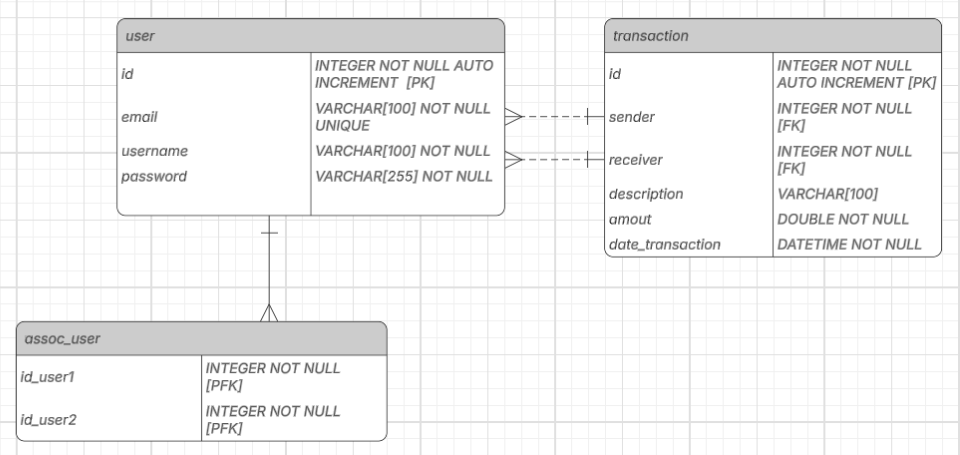
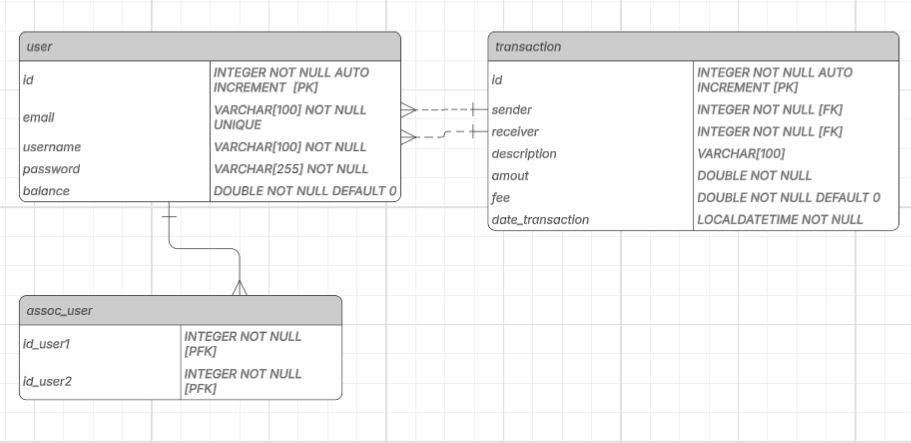
Global refactor (naming, unused imports,unused methods etc)

diff --git a/src/main/resources/templates/register.html b/src/main/resources/templates/register.html
@@ -1,6 +1,5 @@
 <!DOCTYPE html>
-<html lang="fr">
-<html xmlns:th="http://thymeleaf.org">
+<html lang="fr" xmlns:th="http://thymeleaf.org">
 <head>
     <meta charset="UTF-8">
     <title>Inscription - Pay My Buddy</title>
@@ -15,11 +14,11 @@
     <header class="logo">
         <p>
             <a th:href="@{/login}">Pay My Buddy</a>
-        <p>
+        </p>
     </header>
 
 <main>
-    <p class="alert alert-error" th:if="${param.error}">Email ou mot de pase incorrect.</p>
+    <p class="alert alert-error" th:if="${param.error}">Email ou mot de passe incorrect.</p>
     <p class="alert alert-error" th:if="${errorMessage}" th:text="${errorMessage}"></p>
     <p class="alert alert-success" th:if="${successMessage}" th:text="${successMessage}"></p>
 

diff --git a/src/main/resources/templates/login.html b/src/main/resources/templates/login.html
@@ -1,6 +1,5 @@
 <!DOCTYPE html>
-<html lang="fr">
-<html xmlns:th="http://thymeleaf.org">
+<html lang="fr" xmlns:th="http://thymeleaf.org">
 <head>
     <meta charset="UTF-8">
     <title>Connexion - Pay My Buddy</title>
@@ -17,11 +16,11 @@
     <header class="logo">
         <p>
             <a th:href="@{/login}">Pay My Buddy</a>
-        <p>
+        </p>
     </header>
 
 <main>
-    <p class="alert alert-error" th:if="${param.error}">Email ou mot de pase incorrect.</p>
+    <p class="alert alert-error" th:if="${param.error}">Email ou mot de passe incorrect.</p>
     <p class="alert alert-success" th:if="${param.logout}">Déconnecté.e</p>
     <p class="alert alert-error" th:if="${errorMessage}" th:text="${errorMessage}"></p>
 

diff --git a/src/main/resources/templates/transactions.html b/src/main/resources/templates/transactions.html
@@ -47,7 +47,7 @@
         </div>
          <div>
              <label for="montant-transaction" class="invisible">Montant de la transaction</label>
-            <input class="montant-transaction" id="montant-transaction" type="number" th:field="*{amount}" placeholder="0" step="0.01" min="0.01" required> </div>
+            <input class="montant-transaction" id="montant-transaction" type="number" th:field="*{amount}" placeholder="0" step="0.01" min="0.01" required>
         </div>
         <div>
              <button class="payer-button" type="submit">Payer</button>

diff --git a/src/main/java/com/openclassroom/paymybuddy/service/impl/UserService.java b/src/main/java/com/openclassroom/paymybuddy/service/impl/UserService.java
@@ -8,7 +8,6 @@ import com.openclassroom.paymybuddy.model.User;
 import com.openclassroom.paymybuddy.repository.UserRepository;
 import com.openclassroom.paymybuddy.service.IUserService;
 import lombok.extern.slf4j.Slf4j;
-import org.springframework.beans.factory.annotation.Autowired;
 import org.springframework.security.crypto.password.PasswordEncoder;
 import org.springframework.stereotype.Service;
 import org.springframework.transaction.annotation.Transactional;
@@ -45,7 +44,6 @@ public class UserService implements IUserService {
         this.passwordEncoder = passwordEncoder;
         this.userMapper = userMapper;
     }
-    // a supprimer ?
     /**
      * Récupère tout les utilisateurs présents en base de données.
      *
@@ -84,7 +82,7 @@ public class UserService implements IUserService {
      * @return une liste de {@link User} représentant les amis de l'utilisateur
      * @throws BusinessException si aucun utilisateur n'est trouvé avec cet email
      */
-    public List<User> getFriendUsernames(String email) {
+    public List<User> getFriends(String email) {
         log.info("GET_FRIENDS_LIST - Récupération de la liste des amis pour l'utilisateur email={}", email);
         User user = userRepository.findByEmailWithFriends(email)
                 .orElseThrow(() -> new BusinessException("USER_NOT_FOUND","Utilisateur introuvable"));
@@ -149,7 +147,7 @@ public class UserService implements IUserService {
             throw new BusinessException("INVALID_OPERATION", "Vous ne pouvez vous ajouter vous-même");
         }
 
-        if (userRepository.verifyRelation(user.getId(), friend.getId()) > 0) {
+        if (userRepository.countRelation(user.getId(), friend.getId()) > 0) {
             log.warn("ADD_FRIEND_ALREADY_EXISTS - L'utilisateur {} est déjà ami avec {} (relation déjà existante)", user.getEmail(), friend.getEmail());
             throw new BusinessException("FRIEND_ALREADY_ADDED", "Personne déjà dans vos contacts");
         }

diff --git a/src/test/java/com/openclassroom/paymybuddy/service/TransactionServiceTest.java b/src/test/java/com/openclassroom/paymybuddy/service/TransactionServiceTest.java
@@ -67,7 +67,7 @@ public class TransactionServiceTest {
         when(userRepository.findByEmail("receiver@mail.com"))
                 .thenReturn(Optional.of(receiver));
 
-        when(userRepository.verifyRelation(1, 2))
+        when(userRepository.countRelation(1, 2))
                 .thenReturn(1);
 
         when(transactionRepository.save(any(Transaction.class)))
@@ -85,7 +85,7 @@ public class TransactionServiceTest {
 
         transactionService.addTransaction("sender@mail.com", request);
 
-        double expectedFee = 100.0 * 0.05;
+        double expectedFee = 100.0 * 0.005;
         double expectedTotal = 100.0 + expectedFee;
 
         assertEquals(200.0 - expectedTotal, sender.getBalance());
@@ -197,7 +197,7 @@ public class TransactionServiceTest {
         when(userRepository.findByEmail("receiver@mail.com"))
                 .thenReturn(Optional.of(receiver));
 
-        when(userRepository.verifyRelation(1, 2))
+        when(userRepository.countRelation(1, 2))
                 .thenReturn(0);
 
         assertThrows(BusinessException.class, () ->
@@ -229,7 +229,7 @@ public class TransactionServiceTest {
                 transactionService.addTransaction("sender@mail.com", request)
         );
 
-        verify(userRepository, never()).verifyRelation(anyInt(), anyInt());
+        verify(userRepository, never()).countRelation(anyInt(), anyInt());
         verify(transactionRepository, never()).save(any());
     }
 
@@ -248,7 +248,7 @@ public class TransactionServiceTest {
                 transactionService.addTransaction("sender@mail.com", request)
         );
 
-        verify(userRepository, never()).verifyRelation(anyInt(), anyInt());
+        verify(userRepository, never()).countRelation(anyInt(), anyInt());
         verify(transactionRepository, never()).save(any());
     }
 }

diff --git a/src/main/java/com/openclassroom/paymybuddy/PaymybuddyApplication.java b/src/main/java/com/openclassroom/paymybuddy/PaymybuddyApplication.java
@@ -1,29 +1,18 @@
 package com.openclassroom.paymybuddy;
 
-import com.openclassroom.paymybuddy.model.User;
-import com.openclassroom.paymybuddy.service.IUserService;
 import lombok.extern.slf4j.Slf4j;
-import org.springframework.beans.factory.annotation.Autowired;
-import org.springframework.boot.CommandLineRunner;
 import org.springframework.boot.SpringApplication;
 import org.springframework.boot.autoconfigure.SpringBootApplication;
-import org.springframework.transaction.annotation.Transactional;
 
-//Supprimer getUsers?
-//v1 ajout
 /**
  * Classe principale de l'application Pay My Buddy.
  *
- * <p>Cette classe configure et lance l'application Spring Boot.
- * Elle implémente {@link CommandLineRunner} pour exécuter des tâches
- * de démarrage.</p>
+ * <p>Cette classe configure et lance l'application Spring Boot.</p>
  */
 @SpringBootApplication
 @Slf4j
-public class PaymybuddyApplication implements CommandLineRunner {
+public class PaymybuddyApplication {
 
-	@Autowired
-	private IUserService userService;
 
 	/**
 	 * Point d'entrée principal de l'application.
@@ -39,17 +28,4 @@ public class PaymybuddyApplication implements CommandLineRunner {
 		log.info("APPLICATION_STARTED - L'application Pay My Buddy est démarrée");
 	}
 
-	/**
-	 * Méthode exécutée après le démarrage de l'application.
-	 *
-	 * Affiche la liste des utilisateurs présents en base de données dans la console.
-	 * Cette méthode est annotée {@code @Transactional} pour assurer l'accès aux données.
-	 *
-	 * @param args les arguments de ligne de commande passés à l'application
-	 */	@Override
-	@Transactional
-	public void run(String... args) throws Exception {
-		Iterable<User> users = userService.getUsers();
-		users.forEach(user -> System.out.println(user.getUsername()));
-	}
 }

diff --git a/src/main/java/com/openclassroom/paymybuddy/repository/UserRepository.java b/src/main/java/com/openclassroom/paymybuddy/repository/UserRepository.java
@@ -11,7 +11,7 @@ import java.util.Optional;
 /**
  * Repository JPA pour la gestion des utilisateurs.
  * <p>Permet la persistance, la récupération et certaines requêtes complexes liées aux utilisateurs
- * et à leurs relations d'amis (via l'entité {@link User} et la table de relation {@ode assoc_user}).</p>
+ * et à leurs relations d'amis (via l'entité {@link User} et la table de relation {@code assoc_user}).</p>
  *
  * <p>Hérite de {@link CrudRepository} pour bénéficier des méthodes de base (save, findById, delete, etc.).</p>
  */
@@ -41,7 +41,7 @@ public interface UserRepository extends CrudRepository <User, Integer> {
     /**
      * Vérifie l'existence d'une relation d'amitié entre deux utilisateurs.
      *
-     * <p> Interogge la table de relation {@code assoc_user} pour compter le nombre de lignes
+     * <p> Interroge la table de relation {@code assoc_user} pour compter le nombre de lignes
      * où l'utilisateur donné et son ami apparaissent dans ou l'autre des champs {@code id_user1} et {@code id_user}
      * </p>
      *
@@ -50,6 +50,6 @@ public interface UserRepository extends CrudRepository <User, Integer> {
      * @return le nombre de relations trouvées (1 s'il y a une relation, 0 sinon)
      */
     @Query(value= "SELECT count(*) FROM assoc_user WHERE (id_user1 = :userId AND id_user2 = :friendId) OR (id_user1 = :friendId AND id_user2 = :userId)", nativeQuery = true)
-        int verifyRelation(int userId, int friendId);
+        int countRelation(int userId, int friendId);
 
 }

diff --git a/src/test/java/com/openclassroom/paymybuddy/service/UserServiceTest.java b/src/test/java/com/openclassroom/paymybuddy/service/UserServiceTest.java
@@ -248,7 +248,7 @@ public class UserServiceTest {
         when(userRepository.findByEmail("friend@mail.com"))
                 .thenReturn(Optional.of(friend));
 
-        when(userRepository.verifyRelation(1, 2))
+        when(userRepository.countRelation(1, 2))
                 .thenReturn(0);
 
         userService.addFriend("user@mail.com", "friend@mail.com");
@@ -319,7 +319,7 @@ public class UserServiceTest {
         when(userRepository.findByEmail("friend@mail.com"))
                 .thenReturn(Optional.of(friend));
 
-        when(userRepository.verifyRelation(1, 2))
+        when(userRepository.countRelation(1, 2))
                 .thenReturn(1);
 
         assertThrows(BusinessException.class, () ->
@@ -382,7 +382,7 @@ public class UserServiceTest {
         when(userRepository.findByEmailWithFriends("test@mail.com"))
                 .thenReturn(Optional.of(user));
 
-        List<User> result = userService.getFriendUsernames("test@mail.com");
+        List<User> result = userService.getFriends("test@mail.com");
 
         assertEquals(2, result.size());
     }
@@ -395,7 +395,7 @@ public class UserServiceTest {
                 .thenReturn(Optional.empty());
 
         assertThrows(BusinessException.class, () ->
-                userService.getFriendUsernames("test@mail.com")
+                userService.getFriends("test@mail.com")
         );
     }
 }

diff --git a/src/main/java/com/openclassroom/paymybuddy/service/impl/TransactionService.java b/src/main/java/com/openclassroom/paymybuddy/service/impl/TransactionService.java
@@ -10,7 +10,6 @@ import com.openclassroom.paymybuddy.repository.TransactionRepository;
 import com.openclassroom.paymybuddy.repository.UserRepository;
 import com.openclassroom.paymybuddy.service.ITransactionService;
 import lombok.extern.slf4j.Slf4j;
-import org.springframework.beans.factory.annotation.Autowired;
 import org.springframework.stereotype.Service;
 import org.springframework.transaction.annotation.Transactional;
 
@@ -82,7 +81,7 @@ public class TransactionService implements ITransactionService {
 
         double amount = requestDto.getAmount();
 
-        double fee = amount * 0.05;
+        double fee = amount * 0.005;
         double totalAmount = amount + fee;
 
         if(amount <= 0 ) {
@@ -103,7 +102,7 @@ public class TransactionService implements ITransactionService {
             throw new BusinessException("INVALID_TRANSACTION","L'expéditeur et le destinataire doivent être différents");
         }
 
-        int relationCount = userRepository.verifyRelation(sender.getId(), receiver.getId());
+        int relationCount = userRepository.countRelation(sender.getId(), receiver.getId());
         if (relationCount == 0) {
             log.warn("ADD_TRANSACTION_INVALID_FRIENDS - Le destinataire {} n'est pas dans les relations de {}",
                     receiver.getEmail(), senderEmail);

diff --git a/src/main/java/com/openclassroom/paymybuddy/controller/RegisterController.java b/src/main/java/com/openclassroom/paymybuddy/controller/RegisterController.java
@@ -3,7 +3,6 @@ package com.openclassroom.paymybuddy.controller;
 import com.openclassroom.paymybuddy.model.User;
 import com.openclassroom.paymybuddy.service.IUserService;
 import lombok.extern.slf4j.Slf4j;
-import org.springframework.security.crypto.password.PasswordEncoder;
 import org.springframework.stereotype.Controller;
 import org.springframework.web.bind.annotation.PostMapping;
 import org.springframework.web.bind.annotation.RequestParam;
@@ -20,17 +19,13 @@ public class RegisterController {
 
     private final IUserService userService;
 
-    private final PasswordEncoder passwordEncoder;
-
     /**
-     * Construit le contrôleur avec le service utilisateur et l'encodeur de mot de passe.
+     * Construit le contrôleur avec le service utilisateur.
      *
      * @param userService service métier des utilisateurs
-     * @param passwordEncoder encodeur de mot de passe utilisé pour sécuriser le mot de passe
      */
-    public RegisterController(IUserService userService, PasswordEncoder passwordEncoder) {
+    public RegisterController(IUserService userService) {
         this.userService = userService;
-        this.passwordEncoder = passwordEncoder;
     }
 
     /**

diff --git a/src/main/java/com/openclassroom/paymybuddy/mapper/TransactionMapper.java b/src/main/java/com/openclassroom/paymybuddy/mapper/TransactionMapper.java
@@ -33,6 +33,7 @@ public interface TransactionMapper {
     @Mapping(target = "transactionId", ignore = true)
     @Mapping(target = "sender", source = "sender")
     @Mapping(target = "receiver", source = "receiver")
+    @Mapping(target = "fee", ignore = true)
     @Mapping(target = "dateTransaction", expression = "java(LocalDateTime.now())")
     Transaction toEntity(TransactionRequestDto dto, User sender, User receiver);
 
@@ -40,7 +41,7 @@ public interface TransactionMapper {
      * Convertit une entité {@link Transaction} en DTO de réponse.
      *
      * Le pseudo de l'expéditeur et du destinataire sont extraites depuis les relations
-     * {@code sender.username} et {@code sender.username}.
+     * {@code sender.username} et {@code receiver.username}.
      *
      * @param transaction l'entité transaction à convertir
      * @return un {@link TransactionResponseDto} représentant la transaction

diff --git a/src/main/java/com/openclassroom/paymybuddy/service/IUserService.java b/src/main/java/com/openclassroom/paymybuddy/service/IUserService.java
@@ -60,7 +60,7 @@ public interface IUserService {
  * @param email l'email de l'utilisateur dont on souhaite obtenir la liste d'amis (non {@code null})
  * @return une liste de {@link User} représentant les amis de l'utilisateur
  */
-    List<User> getFriendUsernames(String email);
+    List<User> getFriends(String email);
 
     /**
  * Met à jour le mot de passe d'un utilisateur.
@@ -83,7 +83,7 @@ public interface IUserService {
  * Met à jour le solde d'un utilisateur en ajoutant ou retranchant un montant donné.
  *
  * @param email  l'email de l'utilisateur dont on met à jour le solde (non {@code null})
- * @param Amount le montant à ajouter (peut être négatif pour retrait)
+ * @param amount le montant à ajouter (peut être négatif pour retrait)
  */
-    void updateBalance(String email, double Amount);
+    void updateBalance(String email, double amount);
 }
